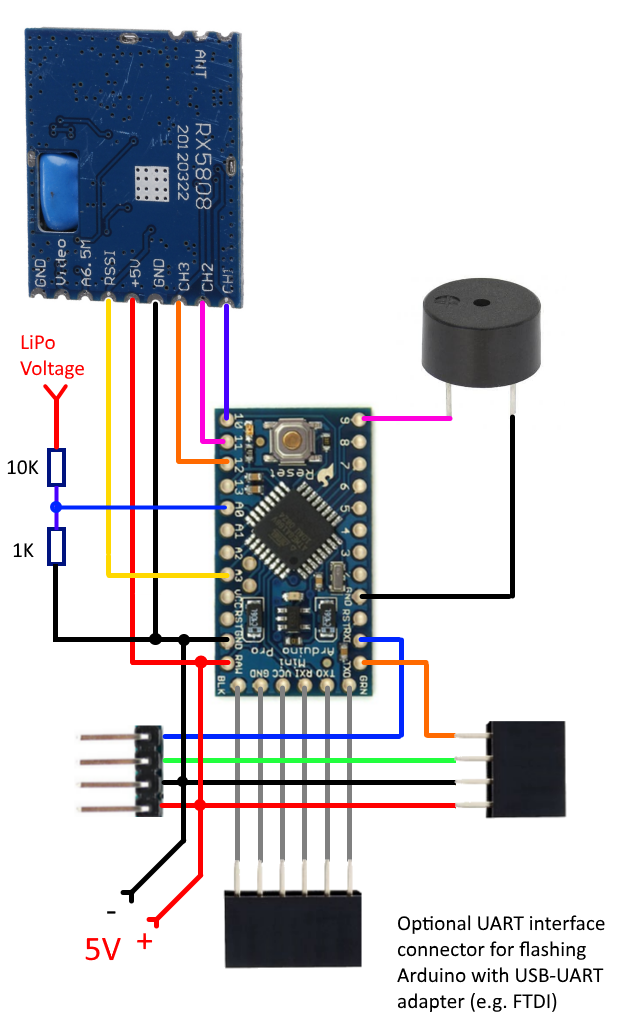
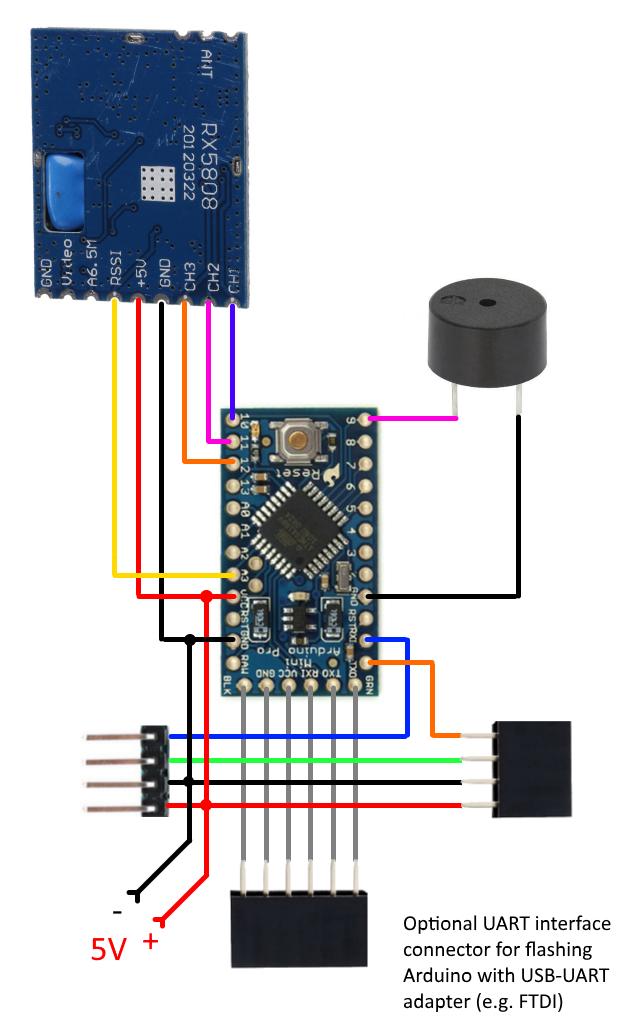
update wiring and readme

diff --git a/README.md b/README.md
@@ -123,6 +123,8 @@ Parts may be connected directly without using any additional components:
 
 **UPDATE:** powering RX5808 from Arduino's VCC was a bad idea - Pro Mini's linear regulator might not be able to provide enough power for RX, so use raw 5V power instead.
 
+**UPDATE #2:** powering Arduino via RAW pin is also a bad idea if you use external stabilized 5V power supply - Arduino's internal voltage regulator might significantly drop voltage thus making LiPo monitor calculations wrong. Supply 5V power to VCC pin instead (as shown on the updated wiring diagram).
+
 Note the resistor divider for LiPo Battery monitoring. Although just one of the Solo devices in a Chorus should be connected to LiPo battery for monitoring, but make sure to have A0 Arduino pins on all other Solo devices connected to Ground (via 1K resistor) or just solder the resistors on each Solo device according to schematic.
 
 <img src="docs/img/wiring_solo.png" alt="Wiring Solo schematic" width="400">
